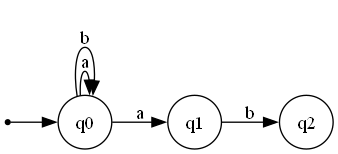
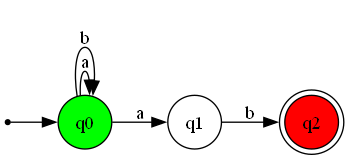
make improvment to graph drawing and feature result

Changed region(s): [[0.0, 0.1818, 1.0, 0.987], [0.5325, 0.7273, 0.5917, 0.8571]]

diff --git a/View/handlerFA.php b/View/handlerFA.php
@@ -32,11 +32,18 @@ if ($_SERVER["REQUEST_METHOD"] == "POST") {
         } else {
             $fa = new NonDeterministicFiniteAutomaton();
         }
-        // Set up FA properties
+
+        $new_finalstates = [];
+        foreach ($final_states as $item) {
+            if ($item !== "") {
+                $new_finalstates[] = $item;
+            }
+        }
         $fa->setStartState($start_state);
-        $fa->setFinalState($final_states);
+        $fa->setFinalState($new_finalstates);
         $fa->setAlphabet($symbols);
         $fa->setTransition($transition_table);
+        // Set up FA properties
         // Handle different actions based on form submission
         $action = isset($_POST['action']) ? $_POST['action'] : '';
 
@@ -47,20 +54,28 @@ if ($_SERVER["REQUEST_METHOD"] == "POST") {
                 } else {
                     $result = "This FA is a NFA";
                 }
-                $graph = new Graph($name, $symbols, $start_state, $final_states, $transition_table);
+                $graph = new Graph($name, $symbols, $start_state, $new_finalstates, $transition_table);
 
                 $fullPath = $fsm->generateGraph($graph);
                 $fullPath = str_replace('\\', '/', $fullPath);
                 $basePath = str_replace('\\', '/', 'C:/xampp/htdocs');
                 $relativePath = str_replace($basePath, '', $fullPath);
-                echo '<img src="' . $relativePath . '" alt="FA graph">';
+                echo '<img src="' . $relativePath . '" alt="FA graph" style="width:40% ; height: 40%;">';
                 echo '<br>';
                 echo $result;
                 break;
             case 'convert_nfa':
+                $graph = new Graph($name, $symbols, $start_state, $new_finalstates, $transition_table);
+
+                $fullPath = $fsm->generateGraph($graph);
+                $fullPath = str_replace('\\', '/', $fullPath);
+                $basePath = str_replace('\\', '/', 'C:/xampp/htdocs');
+                $relativePath = str_replace($basePath, '', $fullPath);
+                echo '<img src="' . $relativePath . '" alt="FA graph" style="width:40% ; height: 40%;">';
                 if (!$fsm->isDFA()) {
                     $result = $fsm->nfaToDfa($fa);
                     if ($result) {
+                        echo'TO';
                         $result_transition = $result->transitionTable;
                         $result_alphabet = $result->alphabet;
                         $result_start = $result->startState;
@@ -71,8 +86,7 @@ if ($_SERVER["REQUEST_METHOD"] == "POST") {
                         $fullPath = str_replace('\\', '/', $fullPath);
                         $basePath = str_replace('\\', '/', 'C:/xampp/htdocs');
                         $relativePath = str_replace($basePath, '', $fullPath);
-                        echo '<img src="' . $relativePath . '" alt="FA graph">';
-                    }
+                        echo '<img src="' . $relativePath . '" alt="FA graph" style="width:40% ; height: 40%;">';                    }
                 } else {
                     echo " The FA is Already a DFA";
                 }
@@ -80,9 +94,25 @@ if ($_SERVER["REQUEST_METHOD"] == "POST") {
             case 'test_string':
                 $input_string = isset($_POST['test_string_input']) ? $_POST['test_string_input'] : '';
                 $result = $fsm->isAccepted($input_string) ? "Accepted" : "Not Accepted";
+                $graph = new Graph($name, $symbols, $start_state, $new_finalstates, $transition_table);
+
+                $fullPath = $fsm->generateGraph($graph);
+                $fullPath = str_replace('\\', '/', $fullPath);
+                $basePath = str_replace('\\', '/', 'C:/xampp/htdocs');
+                $relativePath = str_replace($basePath, '', $fullPath);
+                echo '<img src="' . $relativePath . '" alt="FA graph" style="width:40% ; height: 40%;">';
+                echo '<br>';
                 echo 'The string ' . "'" . $input_string . "'" . ' is ' . $result . 'by the FA';
                 break;
             case 'minimize':
+                $graph = new Graph($name, $symbols, $start_state, $new_finalstates, $transition_table);
+
+                $fullPath = $fsm->generateGraph($graph);
+                $fullPath = str_replace('\\', '/', $fullPath);
+                $basePath = str_replace('\\', '/', 'C:/xampp/htdocs');
+                $relativePath = str_replace($basePath, '', $fullPath);
+                echo '<img src="' . $relativePath . '" alt="FA graph" style="width:40% ; height: 40%;">';
+                echo '<br>';
                 if ($fsm->isDFA()) {
                     $converted_transition_table = [];
                     foreach ($transition_table as $state => $transitions) {
@@ -92,7 +122,7 @@ if ($_SERVER["REQUEST_METHOD"] == "POST") {
                     }
                     $fa->setTransition($converted_transition_table);
                     $result = $fsm->minimizeDFA($fa);
-                    if ($result && $result->transitionTable!==$converted_transition_table) {
+                    if ($result && $result->transitionTable !== $converted_transition_table) {
                         $result_transition = $result->transitionTable;
                         $result_alphabet = $result->alphabet;
                         $result_start = $result->startState;
@@ -103,14 +133,12 @@ if ($_SERVER["REQUEST_METHOD"] == "POST") {
                         $fullPath = str_replace('\\', '/', $fullPath);
                         $basePath = str_replace('\\', '/', 'C:/xampp/htdocs');
                         $relativePath = str_replace($basePath, '', $fullPath);
-                        echo '<img src="' . $relativePath . '" alt="FA graph">';
-                    }
-                    else{
+                        echo '<img src="' . $relativePath . '" alt="FA graph" style="width:40% ; height: 40%;">';                    } else {
                         $result = "Look like the DFA is minimized";
                         echo $result;
                     }
                 } else {
-                    $result = "Can not minimize a NFA, Convert to DFA first!";
+                    $result = "Can not minimize a NFA!";
                     echo $result;
                 }
                 break;

diff --git a/View/homepage.php b/View/homepage.php
@@ -51,8 +51,6 @@
                             </div>
                         </div>
                     </section>
-                    <label style="color: red;">please confirm before using feature</label><br>
-                    <button type="submit" class="btn btn-secondary" name="submit">confirm</button>
             </div>
             <div class="col-6">
                 <h3>Transition Table</h3>
@@ -69,6 +67,10 @@
                         </tbody>
                     </table>
                 </section>
+                <p style="margin-left: 230px;"><b style="color: red;">Note</b>: Please confirm before using feature!</p>
+                <div style="display: flex; justify-content: right;">
+                    <button type="submit" class="btn btn-secondary" name="submit" style="background-color: #365679;" >confirm</button>
+                </div>
             </div>
         </div>
         <h3>Features</h3>
@@ -128,8 +130,8 @@
 
         <!-- Modals -->
         <div class="modal fade" id="test-deterministic-modal" tabindex="-1" role="dialog"
-            aria-labelledby="test-deterministic-modal-label" aria-hidden="true">
-            <div class="modal-dialog" role="document">
+            aria-labelledby="test-deterministic-modal-label" aria-hidden="true" >
+            <div class="modal-dialog" role="document" style="max-width: 80%; height: 80vh; margin: auto;">
                 <div class="modal-content">
                     <div class="modal-header">
                         <h5 class="modal-title" id="test-deterministic-modal-label">Test Deterministic Finite Automaton
@@ -138,7 +140,7 @@
                             <span aria-hidden="true">&times;</span>
                         </button>
                     </div>
-                    <div class="modal-body" id="test-fa-result">
+                    <div class="modal-body" id="test-fa-result" style="display: flex; justify-content: center; align-items: center; height: 80vh;">
                         <!-- Result of deterministic test shown here -->
                     </div>
                     <div class="modal-footer">
@@ -150,8 +152,8 @@
 
         <!-- Modal for NFA to DFA conversion -->
         <div class="modal fade" id="nfa-to-dfa-modal" tabindex="-1" role="dialog"
-            aria-labelledby="nfa-to-dfa-modal-label" aria-hidden="true">
-            <div class="modal-dialog" role="document">
+            aria-labelledby="nfa-to-dfa-modal-label" aria-hidden="true" >
+            <div class="modal-dialog" role="document" style="max-width: 80%; height: 80vh; margin: auto;">
                 <div class="modal-content" style="height: 100%;">
                     <div class="modal-header">
                         <h5 class="modal-title" id="nfa-to-dfa-modal-label">Convert NFA to DFA</h5>
@@ -159,7 +161,7 @@
                             <span aria-hidden="true">&times;</span>
                         </button>
                     </div>
-                    <div class="modal-body" id="nfa-to-dfa-result">
+                    <div class="modal-body" id="nfa-to-dfa-result" style="display: flex; justify-content: center; align-items: center; height: 80vh;">
                         <!-- Result of NFA to DFA conversion shown here -->
                     </div>
                     <div class="modal-footer">
@@ -171,8 +173,8 @@
 
         <!-- Modal for Test accepted string -->
         <div class="modal fade" id="test-string-modal" tabindex="-1" role="dialog"
-            aria-labelledby="test-string-modal-label" aria-hidden="true">
-            <div class="modal-dialog" role="document">
+            aria-labelledby="test-string-modal-label" aria-hidden="true" >
+            <div class="modal-dialog" role="document" style="max-width: 80%; height: 80vh; margin: auto;">
                 <div class="modal-content">
                     <div class="modal-header">
                         <h5 class="modal-title" id="test-string-modal-label">Test Accepted String</h5>
@@ -180,7 +182,7 @@
                             <span aria-hidden="true">&times;</span>
                         </button>
                     </div>
-                    <div class="modal-body" id="test-string-result">
+                    <div class="modal-body" id="test-string-result" style="display: flex; justify-content: center; align-items: center; height: 80vh;">
                         <!-- Result of string acceptance test shown here -->
                     </div>
                     <div class="modal-footer">
@@ -191,8 +193,8 @@
         </div>
         <!-- Modal for minimize DFA conversion -->
         <div class="modal fade" id="minimize-dfa-modal" tabindex="-1" role="dialog"
-            aria-labelledby="minimize-dfa-modal-label" aria-hidden="true">
-            <div class="modal-dialog" role="document">
+            aria-labelledby="minimize-dfa-modal-label" aria-hidden="true" >
+            <div class="modal-dialog" role="document" style="max-width: 80%; height: 80vh; margin: auto;">
                 <div class="modal-content">
                     <div class="modal-header">
                         <h5 class="modal-title" id="minimize-dfa-modal-label">Minimize DFA</h5>
@@ -200,7 +202,7 @@
                             <span aria-hidden="true">&times;</span>
                         </button>
                     </div>
-                    <div class="modal-body" id="minimize-dfa-result">
+                    <div class="modal-body" id="minimize-dfa-result" style="display: flex; justify-content: center; align-items: center; height: 80vh;">
                         <!-- Result of DFA minimization shown here -->
                     </div>
                     <div class="modal-footer">

diff --git a/Controller/FiniteStateMachine.php b/Controller/FiniteStateMachine.php
@@ -240,16 +240,19 @@ class FiniteStateMachine
             $dot .= "    node [shape = point]; start;\n";
             $dot .= "    start -> \"$graph->startState\";\n";
             $dot .= "    node [shape = circle];\n";
-
+            // Define start state color
+            $dot .= "\"$graph->startState\" [label=<<font color=\"black\">$graph->startState</font>>, shape = circle, style = filled, color=black, fillcolor=green, fontcolor=black];\n";
             // Track transitions already added to avoid duplicates
             $addedTransitions = [];
 
             foreach ($graph->transitionTable as $state => $actions) {
-                // Define node shapes based on final or non-final state
-                if (in_array($state, $graph->finalStates)) {
-                    $dot .= "    \"$state\" [shape = doublecircle];\n";
-                } else {
-                    $dot .= "    \"$state\" [shape = circle];\n";
+                foreach ($graph->finalStates as $finalstate) {
+                    $dot .= "\"$finalstate\" [label=<<font color=\"black\">$finalstate</font>>, shape = doublecircle, style = filled, color=black, fillcolor=red, fontcolor=black];\n";
+                    if ($state == $finalstate) {
+                        $dot .= "\"$state\" [label=<<font color=\"black\">$state</font>>, shape = doublecircle, style = filled, color=black, fillcolor=red, fontcolor=black];\n";
+                    } else {
+                        $dot .= "    \"$state\" [shape = circle];\n";
+                    }
                 }
 
                 // Add transitions for each action
